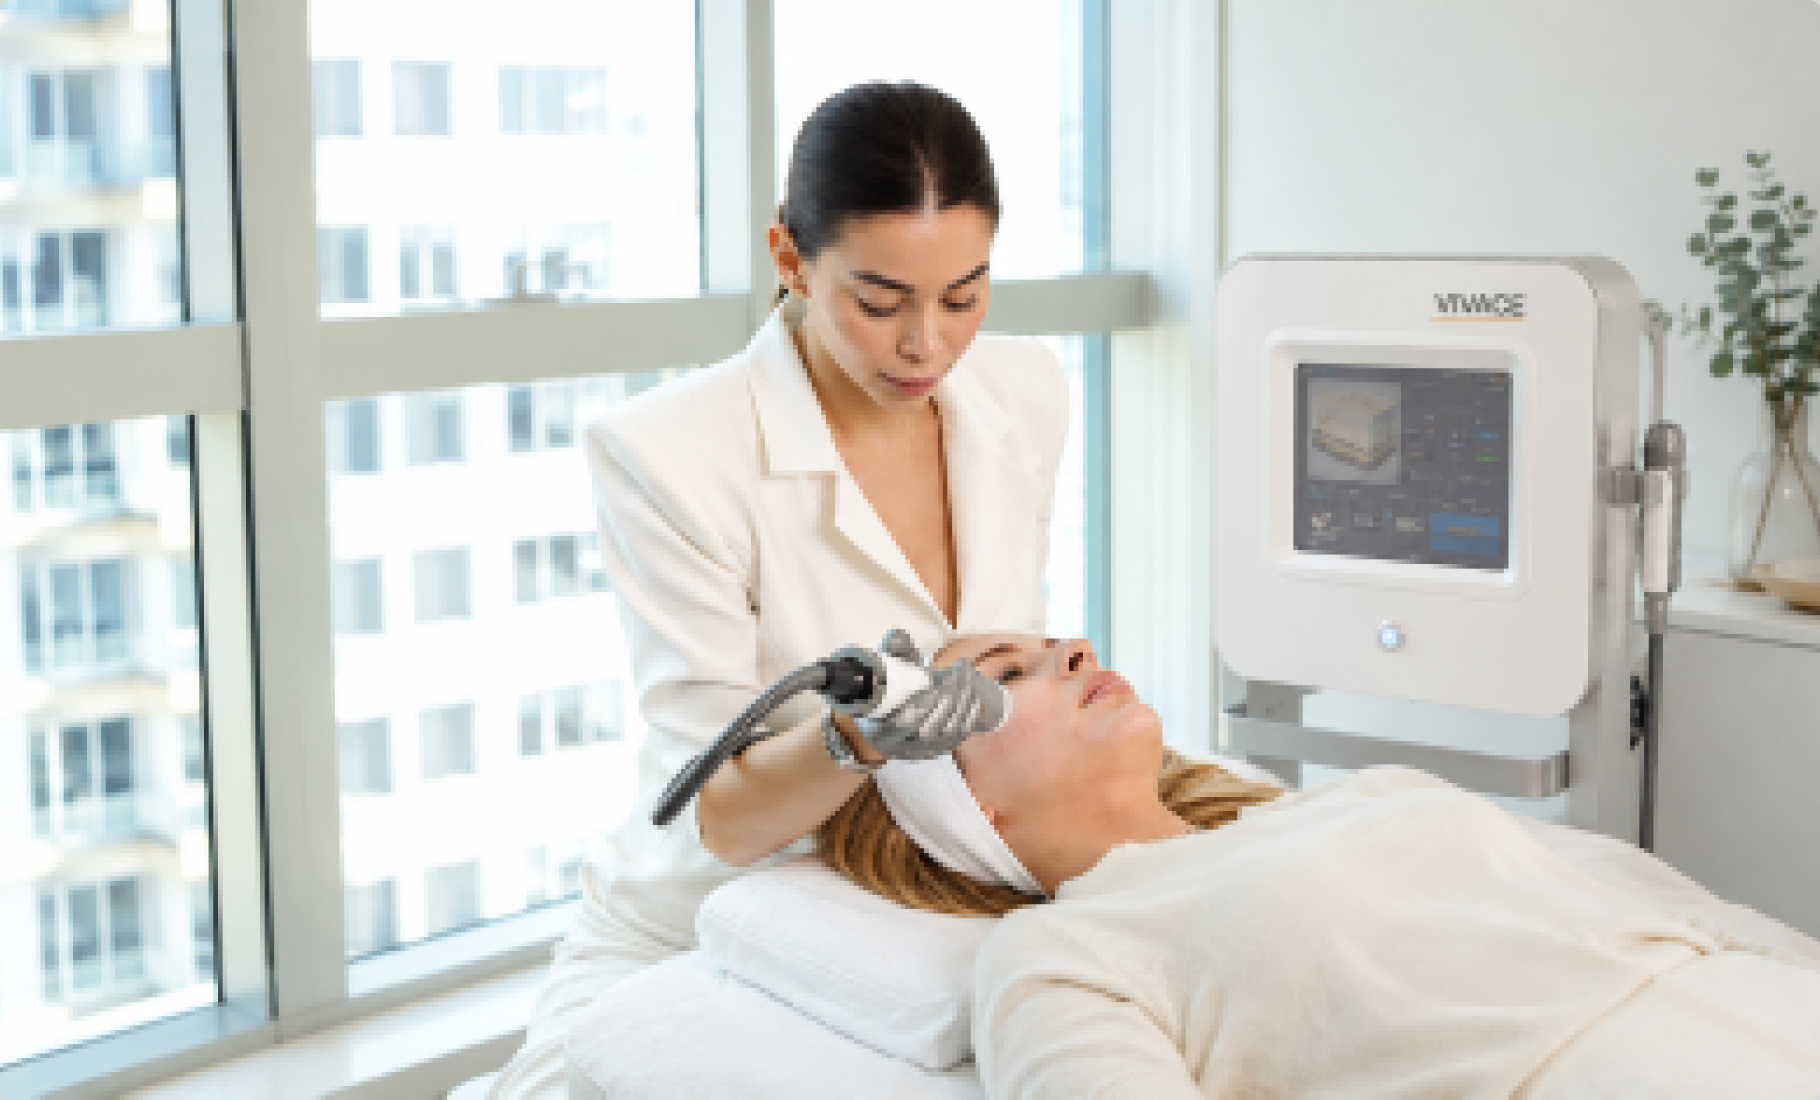
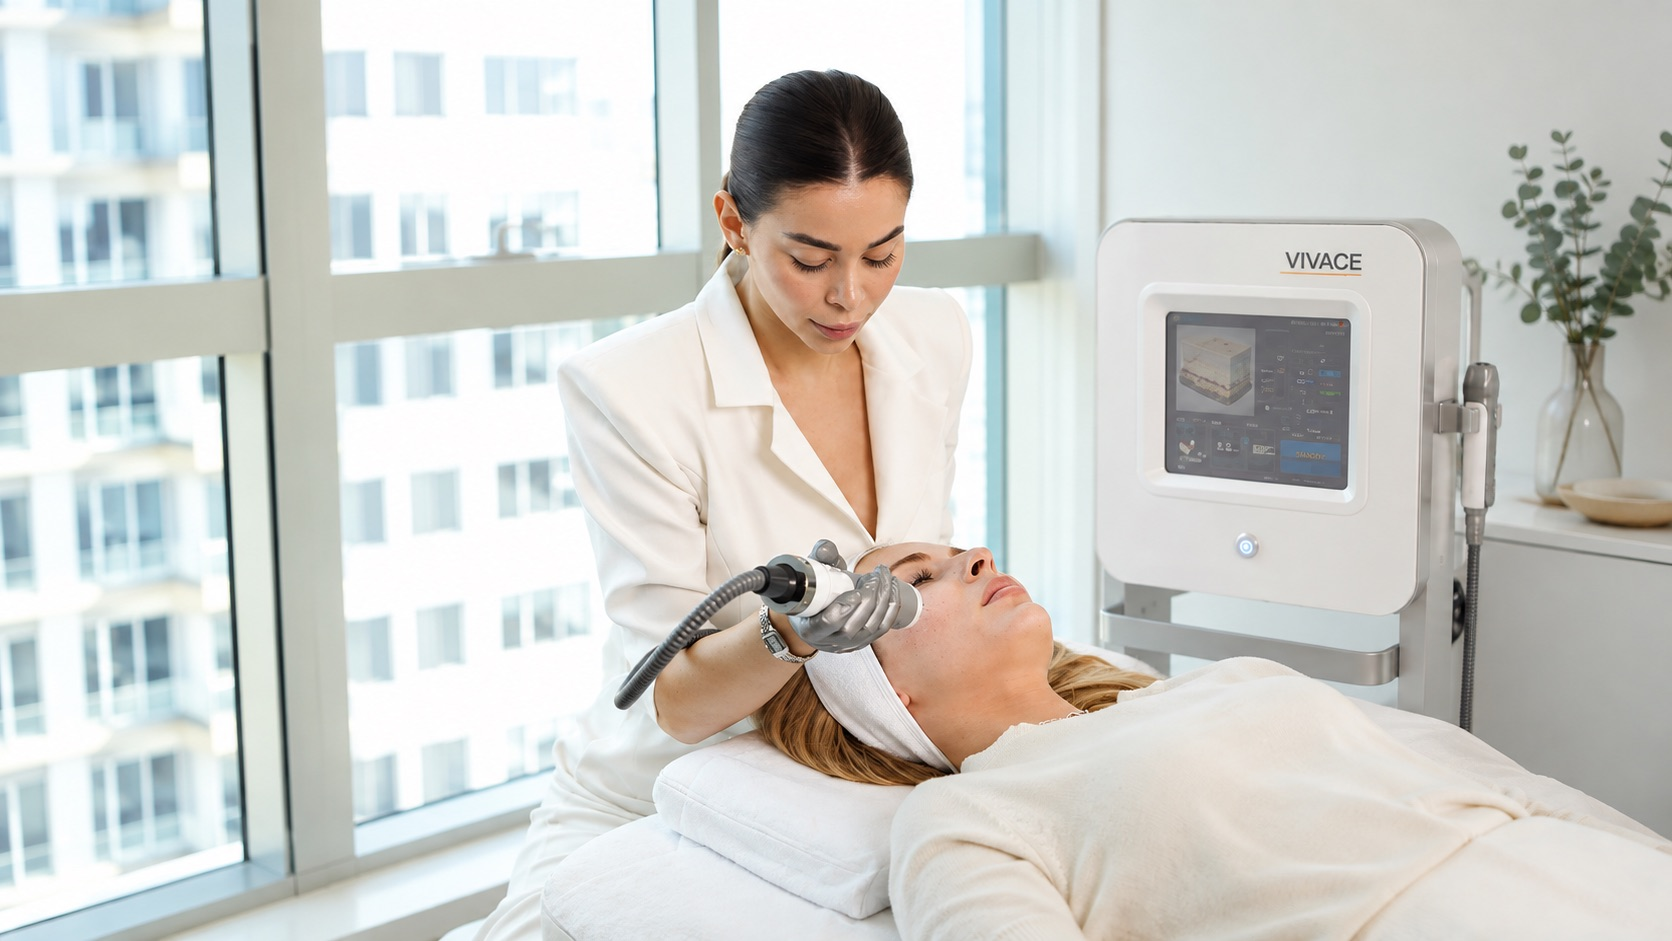
feat: about page updates from Figma — new reception and philosophy photos, founder name, centered CTA word

diff --git a/about.html b/about.html
@@ -156,7 +156,7 @@
 
       <div class="philosophy__statement">
         <div class="philosophy__figure philosophy__figure--wide">
-          <img class="philosophy__image" src="/img/philosophy-1.jpg" width="1820" height="1100" alt="Косметолог проводит аппаратную процедуру" loading="lazy" decoding="async">
+          <img class="philosophy__image" src="/img/philosophy-1.jpg" width="1672" height="941" alt="Косметолог проводит аппаратную процедуру" loading="lazy" decoding="async">
         </div>
 
         <p class="philosophy__quote">
@@ -174,7 +174,7 @@
 
         <div class="philosophy__column">
           <div class="philosophy__figure philosophy__figure--landscape">
-            <img class="philosophy__image" src="/img/philosophy-3.jpg" width="1672" height="941" alt="Пациентки на процедуре IV-терапии" loading="lazy" decoding="async">
+            <img class="philosophy__image" src="/img/philosophy-3.jpg" width="1067" height="1600" alt="Гостья клиники в зоне ожидания" loading="lazy" decoding="async">
           </div>
 
           <div class="philosophy__text content">
@@ -194,7 +194,7 @@
     <section class="section section--light frame frame--inset" data-section="frame">
       <div class="frame__card">
         <div class="frame__decor" aria-hidden="true">
-          <img class="frame__image" src="/img/about-hero.jpg" width="1672" height="941" alt="" loading="lazy" decoding="async">
+          <img class="frame__image" src="/img/about-reception.jpg" width="1920" height="1280" alt="" loading="lazy" decoding="async">
         </div>
 
         <div class="frame__lines" aria-hidden="true">
@@ -336,12 +336,12 @@
       </div>
 
       <div class="founder__portrait">
-        <img class="founder__portrait-image" src="/img/founder.png" width="1180" height="1920" alt="Анастасия Фамилия, основательница SkinLove" loading="lazy" decoding="async">
+        <img class="founder__portrait-image" src="/img/founder.png" width="1180" height="1920" alt="Анастасия Прилатова, основательница SkinLove" loading="lazy" decoding="async">
       </div>
 
       <div class="founder__foot">
         <div class="founder__row">
-          <p class="founder__since">since 2026</p>
+          <p class="founder__since">medical expertise</p>
 
           <figure class="founder__quote">
             <div class="founder__quote-media">
@@ -356,7 +356,7 @@
           </figure>
         </div>
 
-        <p class="founder__name">Анастасия Фамилия</p>
+        <p class="founder__name">Анастасия Прилатова</p>
       </div>
     </section>
 

diff --git a/src/scripts/animations/cta.js b/src/scripts/animations/cta.js
@@ -85,27 +85,24 @@ export function initCta() {
     return top - image.offsetTop;
   };
 
-  /* Разброс — это та же строка, разложенная по ширине карточки с равными
-     промежутками. Считаем целевые сдвиги от текущих позиций слов. Если строки
-     стоят друг под другом (`cta--stacked`), первая уходит к левому краю,
-     последняя — к правому, средние делят ход поровну. */
+  /* Разброс — это та же строка, разложенная по ширине карточки. Считаем
+     целевые сдвиги от текущих позиций слов. Первое слово уходит к левому краю,
+     последнее — к правому. Средние встают центром на равные доли ширины:
+     при трёх словах среднее стоит ровно по центру, на маленьком кадре, как
+     в макете, даже если крайние слова разной длины. Если строки стоят друг
+     под другом (`cta--stacked`), средние делят ход поровну. */
   const spread = () => {
     const stacked = words.length > 1 && words[1].offsetTop > words[0].offsetTop;
+    const last = words.length - 1;
 
-    if (stacked) {
-      return words.map((word, index) =>
-        (title.clientWidth - word.offsetWidth) * (index / (words.length - 1)) - word.offsetLeft);
-    }
+    return words.map((word, index) => {
+      const share = last ? index / last : 0.5;
 
-    const taken = words.reduce((sum, word) => sum + word.offsetWidth, 0);
-    const gap = (title.clientWidth - taken) / (words.length - 1);
-    let left = 0;
+      if (stacked || index === 0 || index === last) {
+        return (title.clientWidth - word.offsetWidth) * share - word.offsetLeft;
+      }
 
-    return words.map((word) => {
-      const shift = left - word.offsetLeft;
-      left += word.offsetWidth + gap;
-
-      return shift;
+      return title.clientWidth * share - word.offsetWidth / 2 - word.offsetLeft;
     });
   };
 

diff --git a/ANIMATIONS.md b/ANIMATIONS.md
@@ -390,8 +390,9 @@
 треть снимка, — поэтому вместе с масштабом едет и `y`.
 
 Разброс слов считается от их собственной раскладки: скрипт замеряет, где слова
-стоят собранными, раскладывает те же ширины по ширине карточки с равными
-промежутками и берёт разницу как стартовый `x`. Поэтому строка собирается ровно
+стоят собранными, прижимает первое слово к левому краю карточки, последнее —
+к правому, а средние ставит центром на равные доли ширины (при трёх словах
+среднее ровно по центру, на кадре) и берёт разницу как стартовый `x`. Поэтому строка собирается ровно
 в ту, что стоит в разметке, и переверстка её не ломает. С модификатором
 `cta--stacked` (wellness) строки стоят друг под другом: в разбросе первая
 прижата к левому краю карточки, вторая — к правому.
